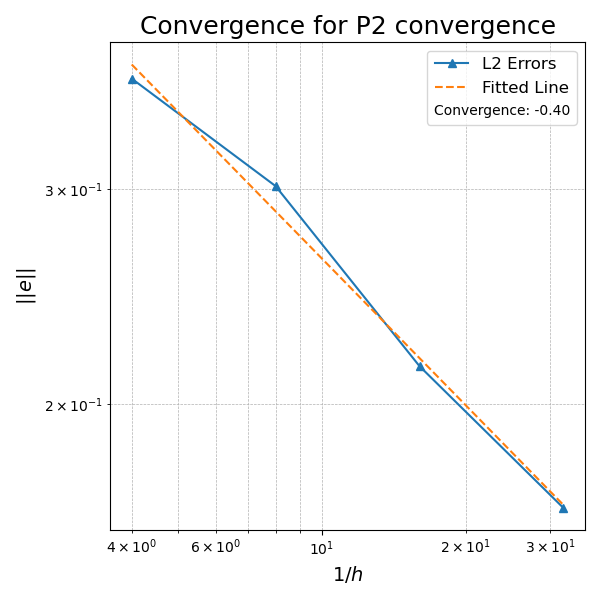
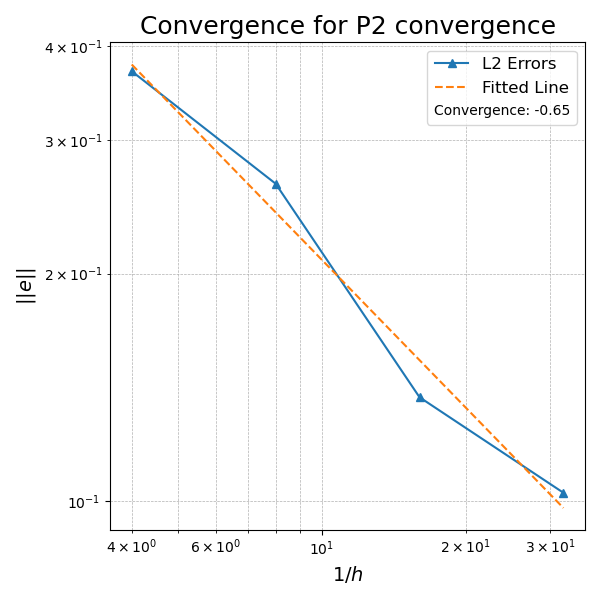
Some more on GFEM convergence

diff --git a/Code/Linear_advection/GFEM_pol.py b/Code/Linear_advection/GFEM_pol.py
@@ -31,6 +31,35 @@ location_data = os.path.join(script_dir, f"Data/GFEM")
 pde = PDE_plot()
 # print(PETSc.ScalarType)
 
+# def error_L2(uh, u_ex, degree_raise=3):
+#     # Create higher order function space
+#     degree = uh.function_space.ufl_element().degree
+#     family = uh.function_space.ufl_element().family_name
+#     mesh = uh.function_space.mesh
+#     W = fem.functionspace(mesh, (family, degree + degree_raise))
+#     # Interpolate approximate solution
+#     u_W = fem.Function(W)
+#     u_W.interpolate(uh)
+
+#     # Interpolate exact solution, special handling if exact solution
+#     # is a ufl expression or a python lambda function
+#     u_ex_W = fem.Function(W)
+#     if isinstance(u_ex, ufl.core.expr.Expr):
+#         u_expr = fem.Expression(u_ex, W.element.interpolation_points())
+#         u_ex_W.interpolate(u_expr)
+#     else:
+#         u_ex_W.interpolate(u_ex)
+
+#     # Compute the error in the higher order function space
+#     e_W = fem.Function(W)
+#     e_W.x.array[:] = u_W.x.array - u_ex_W.x.array
+
+#     # Integrate the error
+#     error = fem.form(ufl.inner(e_W, e_W) * ufl.dx)
+#     error_local = fem.assemble_scalar(error)
+#     error_global = mesh.comm.allreduce(error_local, op=MPI.SUM)
+#     return np.sqrt(error_global)
+
 degrees = [1, 2, 3]
 for degree in degrees:
     fractions = [4, 8, 16, 32]
@@ -46,7 +75,7 @@ for degree in degrees:
         gmsh.model.addPhysicalGroup(gdim, [membrane], 1)
 
         hmax = 1/fraction # 0.05 in example
-        gmsh.option.setNumber("Mesh.CharacteristicLengthMin", hmax)
+        # gmsh.option.setNumber("Mesh.CharacteristicLengthMin", hmax)
         gmsh.option.setNumber("Mesh.CharacteristicLengthMax", hmax)
         gmsh.model.mesh.generate(gdim)
 
@@ -59,7 +88,6 @@ for degree in degrees:
         V_ex = fem.functionspace(domain, ("Lagrange", degree*2))
         # domain.geometry.dim = (2, )
         W = fem.functionspace(domain, ("Lagrange", degree, (domain.geometry.dim, ))) # Lagrange 2 in documentation
-        DG0 = fem.functionspace(domain, ("DG", 0))
 
         if DISCONT:
             """ Discont. IC """
@@ -168,6 +196,8 @@ for degree in degrees:
 
         # Updating the solution and rhs per time step
         for i in range(num_steps):
+            if t+dt > T:
+                dt = T-t
             t += dt
             # print(t)
 
@@ -198,19 +228,31 @@ for degree in degrees:
                 warped.point_data["uh"][:] = uh.x.array
                 plotter.write_frame()
 
+        print(t)
         # pde_realtime_plot.close()
         xdmf.close()
 
         error_L2 = np.sqrt(domain.comm.allreduce(fem.assemble_scalar(fem.form((uh - u_ex)**2 * ufl.dx)), op=MPI.SUM))
         if domain.comm.rank == 0:
             print(f"L2-error: {error_L2:.2e}")
-        
         L2_errors.append(error_L2)
-        
+
+
+        # error = error_L2(uh, u_ex)
+        # print(f"L2-error: {error:.2e}")
+        # L2_errors.append(error)
+
         gmsh.finalize()
 
         # pde.plot_pv(domain, fraction, epsilon, 'Epsilon', 'cont_epsilon_2d_SI', location_figures, plot_2d=True)
         # pde.plot_pv(domain, fraction, uh, f'Solution at t = {T} with SI', 'cont_lin_adv_SI', location_figures)
         # pde.plot_pv(domain, fraction, uh, f'Solution at t = {T} with SI', 'cont_lin_adv_SI_3d', location_figures)
 
+    print("D=", degree, "Errors=", L2_errors)
     pde.plot_convergence(L2_errors, fractions, f"P{degree} convergence", f"conv_{"discont" if DISCONT else "cont"}_D{degree}", location_figures)
+    hs = [1/fraction for fraction in fractions]
+    L2_errors = np.array(L2_errors)
+    hs = np.array(hs)
+    print(L2_errors, hs)
+    rates = np.log(L2_errors[1:] / L2_errors[:-1]) / np.log(hs[1:] / hs[:-1])
+    print(f"Rates: {rates}")

diff --git a/Code/Linear_advection/polynomial_alternation.py b/Code/Linear_advection/polynomial_alternation.py
@@ -23,7 +23,7 @@ from Utils.helpers import get_nodal_h
 import os
 # Enable or disable real-time plotting
 PLOT = False
-DISCONT = False
+DISCONT = True
 STABILIZATION = "RV"
 script_dir = os.path.dirname(os.path.abspath(__file__))
 location_figures = os.path.join(script_dir, f"Figures/{STABILIZATION}")
